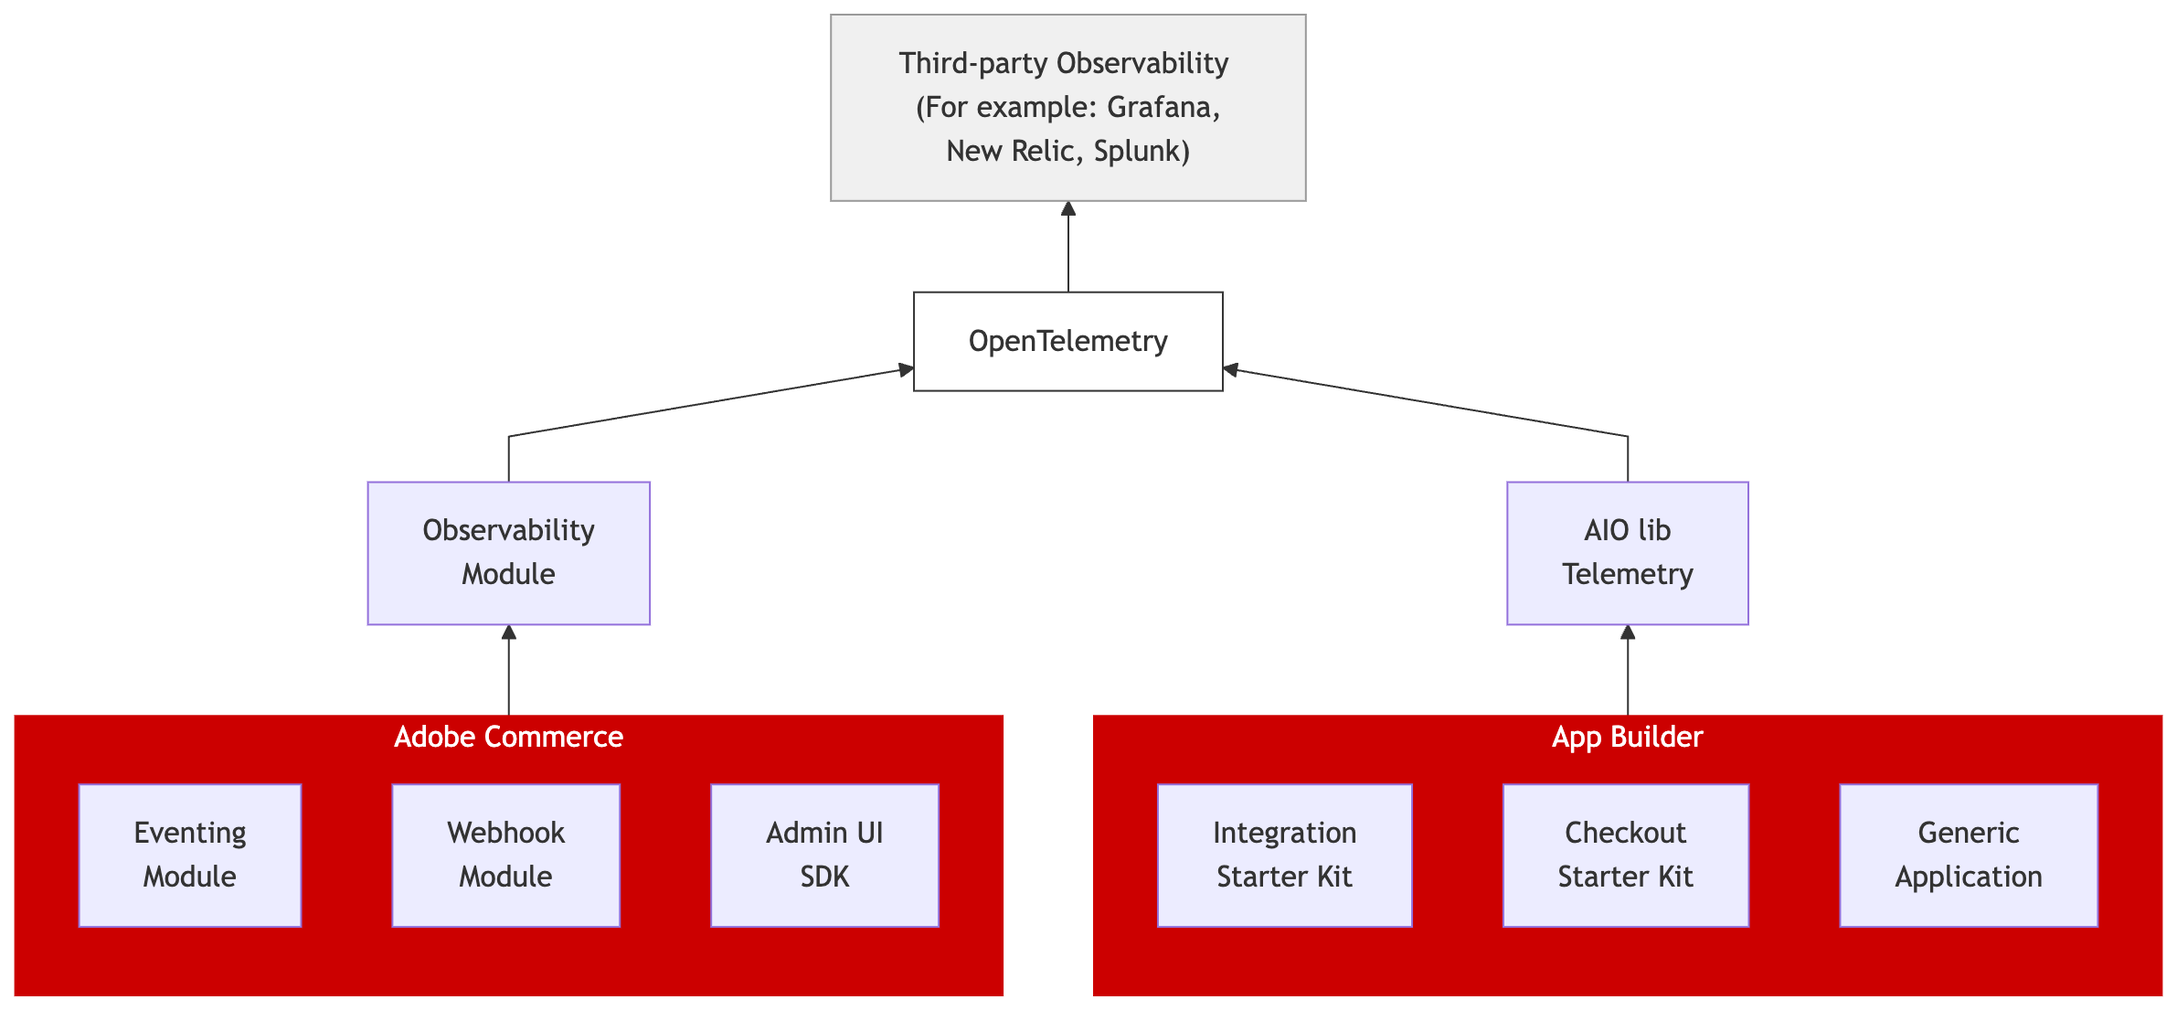
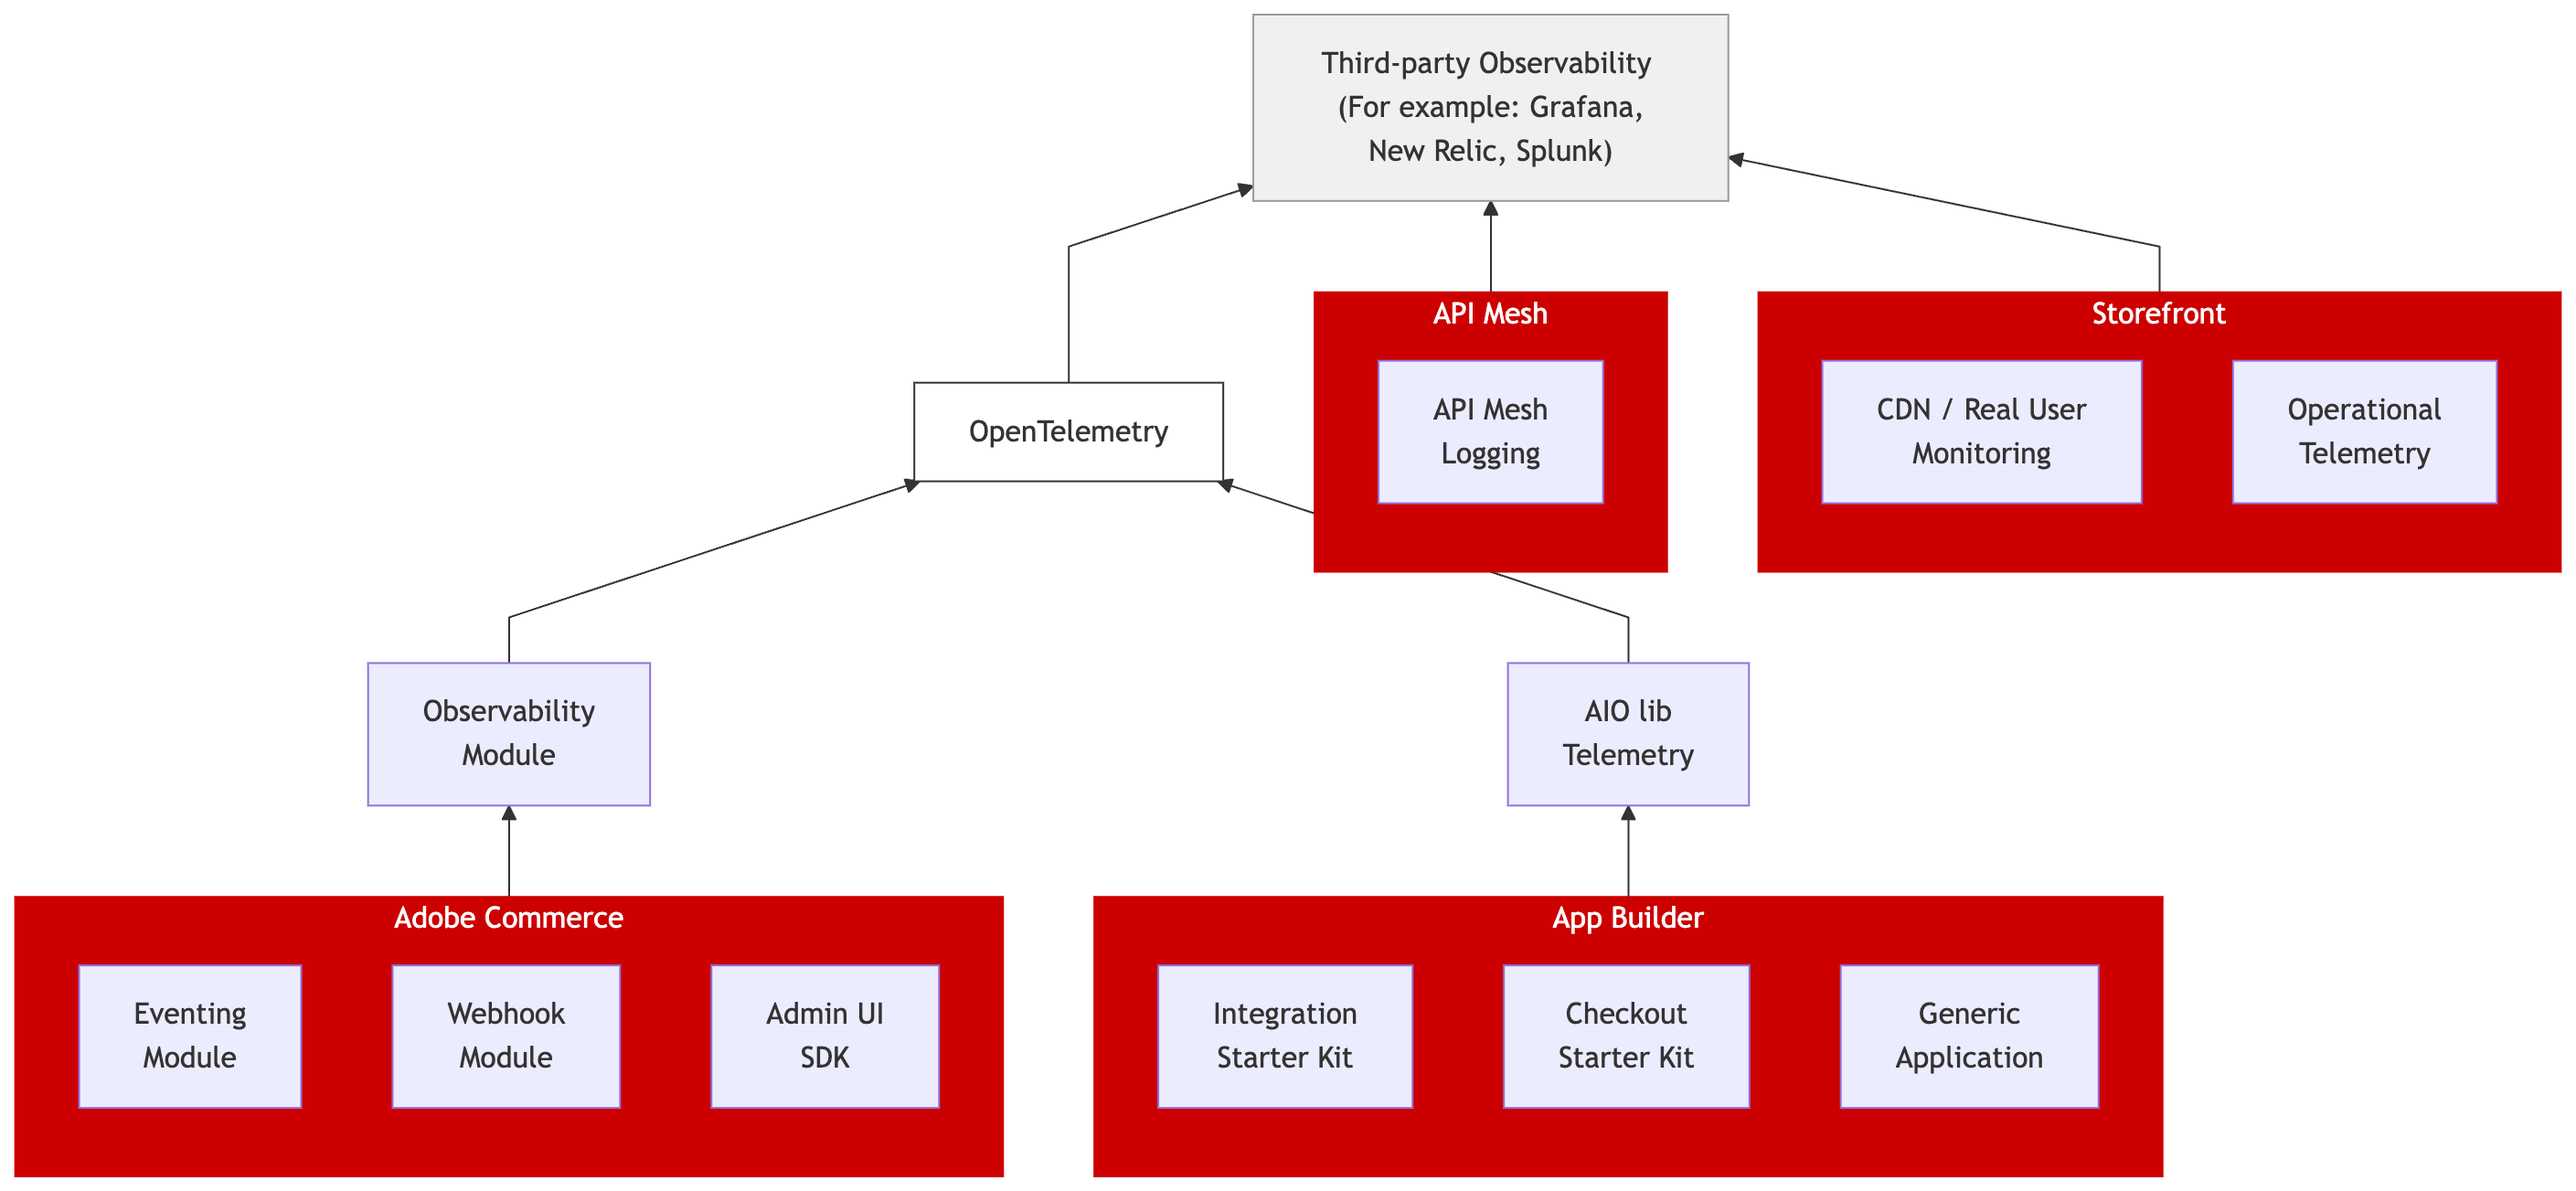
update images and 3rd party tools

diff --git a/help/cloud-service/observability.md b/help/cloud-service/observability.md
@@ -24,6 +24,16 @@ Together, these capabilities help you quickly identify and resolve issues, optim
 
 ![Observability architecture](./assets/observability.png){width="600" zoomable="yes"}
 
+Adobe Commerce supports the following observability tools through OpenTelemetry:
+
+* Elasticsearch
+* Grafana
+* Jaeger
+* New Relic
+* Prometheus
+* Splunk
+* Zipkin
+
 ### Configure subscriptions
 
 [Configure observability subscriptions](https://developer.adobe.com/commerce/extensibility/observability/configuration/) in the [!UICONTROL Admin] or through the REST API to route logs, metrics, or traces to any OpenTelemetry-compatible endpoint. Each subscription targets specific components (webhooks, eventing, or [!UICONTROL Admin UI SDK]).
